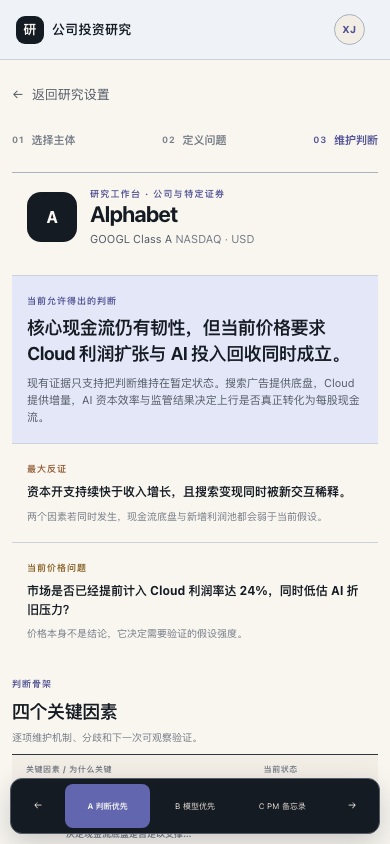
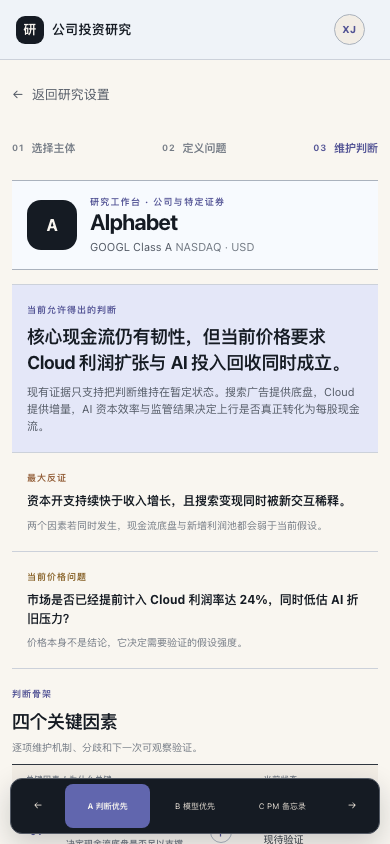
fix(prototype): align mobile order and atomic captures

diff --git a/prototype/investment-research-prototype/styles/responsive.css b/prototype/investment-research-prototype/styles/responsive.css
@@ -18,6 +18,60 @@ table {
   min-width: 0;
 }
 
+main[data-workbench-variant='A'] {
+  display: grid;
+  grid-template-columns: minmax(220px, 0.72fr) minmax(360px, 1.25fr) minmax(570px, 1.75fr);
+}
+
+main[data-workbench-variant='A'] > .back-link,
+main[data-workbench-variant='A'] > .workbench-steps {
+  grid-row: 1;
+}
+
+main[data-workbench-variant='A'] > .back-link {
+  grid-column: 1 / -1;
+  margin-bottom: 9px;
+}
+
+main[data-workbench-variant='A'] > .workbench-steps {
+  grid-column: 1 / -1;
+  align-self: center;
+  justify-self: center;
+  margin: 0 0 9px;
+}
+
+.workbench-context-a {
+  min-width: 0;
+  min-height: 112px;
+  grid-row: 2;
+  grid-column: 1;
+  border-top: 1px solid var(--line-strong);
+  border-bottom: 1px solid var(--line-strong);
+  background: var(--paper-raised);
+}
+
+.workbench-context-a .workbench-identity {
+  height: 100%;
+}
+
+main[data-workbench-variant='A'] > .variant-a {
+  min-width: 0;
+  grid-row: 3;
+  grid-column: 1 / -1;
+}
+
+.workbench-secondary-context {
+  display: grid;
+  min-width: 0;
+  min-height: 112px;
+  grid-row: 2;
+  grid-column: 2 / -1;
+  grid-template-columns: minmax(360px, 1.25fr) minmax(570px, 1.75fr);
+  border-top: 1px solid var(--line-strong);
+  border-bottom: 1px solid var(--line-strong);
+  background: var(--paper-raised);
+}
+
 @media (max-width: 1180px) {
   .search-screen {
     padding-top: 7vh;
@@ -54,6 +108,27 @@ table {
 
   .model-differences {
     overflow-x: auto;
+  }
+
+  main[data-workbench-variant='A'] {
+    grid-template-columns: 1fr;
+  }
+
+  .workbench-context-a {
+    grid-row: 2;
+    grid-column: 1;
+  }
+
+  main[data-workbench-variant='A'] > .variant-a {
+    grid-row: 3;
+    grid-column: 1;
+  }
+
+  .workbench-secondary-context {
+    grid-row: 4;
+    grid-column: 1;
+    grid-template-columns: minmax(320px, 0.8fr) minmax(0, 1.2fr);
+    margin-top: 18px;
   }
 }
 
@@ -189,6 +264,10 @@ table {
     min-height: 0;
   }
 
+  .judgment-band {
+    grid-template-columns: 1fr;
+  }
+
   .workbench-identity,
   .workbench-question,
   .context-ledger > div,
@@ -281,24 +360,49 @@ table {
     flex-direction: column;
   }
 
-  main[data-workbench-variant='A'] :is(.workbench-context, .variant-a, .judgment-band, .business-transmission) {
-    display: contents;
+  main[data-workbench-variant='A'] > .back-link,
+  main[data-workbench-variant='A'] > .workbench-steps {
+    margin-bottom: 10px;
   }
 
-  main[data-workbench-variant='A'] > .back-link { order: 0; }
-  main[data-workbench-variant='A'] > .workbench-steps { order: 1; }
-  main[data-workbench-variant='A'] .workbench-identity { order: 2; border-top: 1px solid var(--line-strong); }
-  main[data-workbench-variant='A'] .workbench-question { order: 14; }
-  main[data-workbench-variant='A'] .judgment-primary { order: 4; margin-top: 14px; border-top: 1px solid var(--line); }
-  main[data-workbench-variant='A'] .judgment-band article:nth-child(2) { order: 5; }
-  main[data-workbench-variant='A'] .judgment-band article:nth-child(3) { order: 6; }
-  main[data-workbench-variant='A'] .context-ledger { order: 15; border-top: 1px solid var(--line); border-bottom: 1px solid var(--line-strong); }
-  main[data-workbench-variant='A'] .factor-section { order: 8; }
-  main[data-workbench-variant='A'] .business-core { order: 9; margin-top: 18px; border-top: 1px solid var(--line-strong); }
-  main[data-workbench-variant='A'] .industry-position { order: 10; }
-  main[data-workbench-variant='A'] .valuation-transmission { order: 11; }
-  main[data-workbench-variant='A'] .largest-unknown { order: 12; }
-  main[data-workbench-variant='A'] .next-action { order: 13; border-bottom: 1px solid var(--line-strong); }
+  main[data-workbench-variant='A'] > .workbench-steps {
+    align-self: auto;
+  }
+
+  .workbench-context-a {
+    min-height: 0;
+  }
+
+  .workbench-context-a .workbench-identity {
+    min-height: 88px;
+    border-top: 0;
+  }
+
+  main[data-workbench-variant='A'] > .variant-a {
+    display: block;
+  }
+
+  main[data-workbench-variant='A'] .judgment-band {
+    margin-top: 14px;
+  }
+
+  main[data-workbench-variant='A'] .business-transmission {
+    margin-top: 18px;
+  }
+
+  .workbench-secondary-context {
+    display: block;
+    min-height: 0;
+    margin-top: 18px;
+  }
+
+  .workbench-secondary-context .workbench-question {
+    border-top: 0;
+  }
+
+  .workbench-secondary-context .context-ledger {
+    border-top: 1px solid var(--line);
+  }
 }
 
 @media (max-width: 430px) {

diff --git a/prototype/investment-research-prototype/screens/workbench.js b/prototype/investment-research-prototype/screens/workbench.js
@@ -74,8 +74,10 @@ export function renderWorkbench(root, { navigate, params }) {
 
   root.innerHTML = `
     <main class="workbench-screen" id="main-content" data-workbench-variant="${variant}">
-      ${sharedContext(securityCode, security)}
-      ${variant === 'A' ? renderVariantA() : variant === 'B' ? renderVariantB() : renderVariantC()}
+      ${variant === 'A' ? renderAccessibleVariantA(securityCode, security) : `
+        ${sharedContext(securityCode, security)}
+        ${variant === 'B' ? renderVariantB() : renderVariantC()}
+      `}
     </main>
     ${renderPrototypeSwitcher(securityCode, variant)}
   `;
@@ -170,7 +172,7 @@ function hasVariantKeyboardScope(target) {
   return target.closest('[data-prototype-switcher]') !== null;
 }
 
-function sharedContext(securityCode, security) {
+function sharedNavigation(securityCode) {
   return `
     <a class="back-link" href="?screen=setup&security=${securityCode}">
       <span aria-hidden="true">←</span> 返回研究设置
@@ -180,26 +182,62 @@ function sharedContext(securityCode, security) {
       <li><span>02</span>定义问题</li>
       <li class="is-current" aria-current="step"><span>03</span>维护判断</li>
     </ol>
+  `;
+}
+
+function workbenchIdentity(security) {
+  return `
+    <div class="workbench-identity">
+      <span class="identity-mark workbench-mark" aria-hidden="true">A</span>
+      <div>
+        <p class="eyebrow">研究工作台 · 公司与特定证券</p>
+        <h1>Alphabet</h1>
+        <p>${security} <span>NASDAQ · USD</span></p>
+      </div>
+    </div>
+  `;
+}
+
+function workbenchQuestion() {
+  return `
+    <div class="workbench-question">
+      <span>研究问题</span>
+      <strong>${RESEARCH_QUESTION}</strong>
+      <small>研究视角 · 3–5 年</small>
+    </div>
+  `;
+}
+
+function contextLedger() {
+  return `
+    <dl class="context-ledger">
+      <div><dt>当前价格 <em>模拟数据</em></dt><dd>$201.42</dd><small>价格时间 2026-08-19 16:00 ET</small></div>
+      <div data-evidence-cutoff="2026-08-19"><dt>证据截止</dt><dd>2026-08-19</dd><small>已冻结研究边界</small></div>
+      <div><dt>判断产品类型</dt><dd>研究员暂定判断</dd><small class="conflict-state">证据冲突，暂定判断</small></div>
+    </dl>
+  `;
+}
+
+function sharedContext(securityCode, security) {
+  return `
+    ${sharedNavigation(securityCode)}
     <header class="workbench-context">
-      <div class="workbench-identity">
-        <span class="identity-mark workbench-mark" aria-hidden="true">A</span>
-        <div>
-          <p class="eyebrow">研究工作台 · 公司与特定证券</p>
-          <h1>Alphabet</h1>
-          <p>${security} <span>NASDAQ · USD</span></p>
-        </div>
-      </div>
-      <div class="workbench-question">
-        <span>研究问题</span>
-        <strong>${RESEARCH_QUESTION}</strong>
-        <small>研究视角 · 3–5 年</small>
-      </div>
-      <dl class="context-ledger">
-        <div><dt>当前价格 <em>模拟数据</em></dt><dd>$201.42</dd><small>价格时间 2026-08-19 16:00 ET</small></div>
-        <div data-evidence-cutoff="2026-08-19"><dt>证据截止</dt><dd>2026-08-19</dd><small>已冻结研究边界</small></div>
-        <div><dt>判断产品类型</dt><dd>研究员暂定判断</dd><small class="conflict-state">证据冲突，暂定判断</small></div>
-      </dl>
+      ${workbenchIdentity(security)}
+      ${workbenchQuestion()}
+      ${contextLedger()}
     </header>
+  `;
+}
+
+function renderAccessibleVariantA(securityCode, security) {
+  return `
+    ${sharedNavigation(securityCode)}
+    <header class="workbench-context-a">${workbenchIdentity(security)}</header>
+    ${renderVariantA()}
+    <section class="workbench-secondary-context" aria-label="研究问题与证据边界">
+      ${workbenchQuestion()}
+      ${contextLedger()}
+    </section>
   `;
 }
 

diff --git a/prototype/investment-research-prototype/README.md b/prototype/investment-research-prototype/README.md
@@ -20,15 +20,17 @@ cd prototype/investment-research-prototype && python3 -m http.server 8010
 
 ## 验证
 
-在仓库根目录运行：
+从仓库根目录使用 `.nvmrc` 中的 Node 版本，然后进入原型目录：
 
 ```bash
-/Users/xiongjiali/.nvm/versions/node/v22.21.1/bin/node --test prototype/investment-research-prototype/contract.test.mjs
-/Users/xiongjiali/.nvm/versions/node/v22.21.1/bin/node prototype/investment-research-prototype/capture.mjs
+nvm use
+cd prototype/investment-research-prototype
+node --test contract.test.mjs
+node capture.mjs
 ```
 
 `capture.mjs` 也可直接用当前 `node` 运行；低于 Node 20 时会自动寻找已安装的兼容版本并重新执行。截图输出到 `output/`。
 
 ## Visual QA
 
-逐张检查六张截图后，桌面搜索与设置页的主次关系清楚，A/B/C 保持了三种不同的阅读构图；表格密度较高但没有页面级裁切，局部表格可独立横向滚动。首轮移动截图里，重复的研究问题位于公司身份与当前判断之间，推迟了核心推理；B 方案截图还保留了上一页面的滚动位置。最终修正将移动端的次要问题与价格/证据台账移到完整推理流之后，并让每次截图在写入前显式回到页面顶部。复查重点包括层级、裁切、密度、文案、移动顺序，以及避免等宽卡片仪表盘式外观。
+逐张检查六张截图后，桌面搜索与设置页的主次关系清楚，A/B/C 保持了三种不同的阅读构图；表格密度较高但没有页面级裁切，局部表格可独立横向滚动。首轮移动截图里，重复的研究问题位于公司身份与当前判断之间，推迟了核心推理；B 方案截图还保留了上一页面的滚动位置。最终修正重组了 A 方案的实际标记与辅助技术阅读顺序，把次要问题与价格/证据台账放在完整推理流之后，再用桌面网格恢复宽屏构图；每次截图也会在写入前显式回到页面顶部。复查重点包括层级、裁切、密度、文案、移动顺序，以及避免等宽卡片仪表盘式外观。
